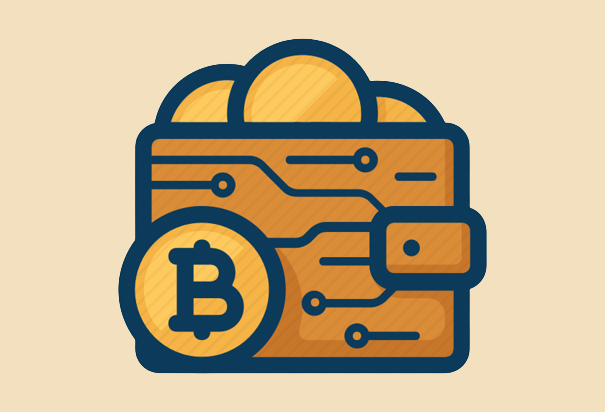
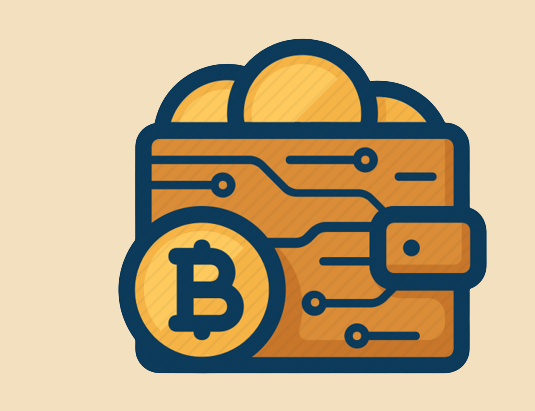
fixed total balance and align issues

Changed region(s): [[0.1794, 0.0876, 0.9271, 0.9343], [0.3589, 0.9051, 0.4187, 0.9343]]

diff --git a/components/LoadWalletComponent.tsx b/components/LoadWalletComponent.tsx
@@ -1,12 +1,21 @@
-import { View, Text, StyleSheet, TouchableOpacity, Image } from 'react-native'
+import { View, Text, StyleSheet, TouchableOpacity, ImageBackground } from 'react-native'
 import React from 'react'
 
-export const LoadWalletComponent = () => {
+export const LoadWalletComponent = ({coinChains}: any) => {
+
+  const calculate_total_balance = () => {
+    let total_balance = 0
+    for (let chain of coinChains){
+        total_balance += +(chain.total_value)
+    }
+    return total_balance
+  }
+
   return (
     <View style={styles.topContainer}>
         <View style={styles.loadWalletSection}>
             <Text style={styles.totalBalanceDesc}>Total Balance</Text>
-            <Text style={styles.totalBalancePrice}>$89.97</Text>
+            <Text style={styles.totalBalancePrice}>${calculate_total_balance()}</Text>
             <TouchableOpacity style={styles.LoadWalletButton}>
                 <Text style={{marginLeft:17, paddingBottom:4, fontWeight: 'bold',}}>Load Wallet</Text>
             </TouchableOpacity>
@@ -15,7 +24,7 @@ export const LoadWalletComponent = () => {
             
         </View> */}
         <View style={{...styles.walletImageSection}}>
-            <Image style={styles.sideImage} source={require("../assets/images/wallet_image.png")}></Image>
+            <ImageBackground style={styles.sideImage} source={require("../assets/images/wallet_image.png")}/>
         </View>
         
       
@@ -53,21 +62,19 @@ const styles = StyleSheet.create({
         height: 40,
         width: 115 ,
         borderRadius: 50,
-        marginLeft: 15,
+        marginLeft: 10,
         backgroundColor: "#f5b445",
         justifyContent: 'center',
     },
     sideImage:{
         height: 161,
         width: 252
-        // height: 161px;
-        // width: 252px;
     },
     walletImageSection: {
-        // width: 100,
         backgroundColor:'#f3e0be',
         paddingTop: 10,
-        justifyContent: 'space-around'
+        justifyContent: 'space-around',
+        textAlign: 'right'
 
     }
 

diff --git a/components/CoinsComponent.tsx b/components/CoinsComponent.tsx
@@ -1,12 +1,17 @@
 import { View, Text, Image, StyleSheet } from 'react-native'
 import React from 'react'
-import { CoinType } from "../types";
 
 
-export const CoinsComponent = ({coin}) => {
+export const CoinsComponent = ({coin}: any) => {
   return (
         <View style={styles.singleCoin}>
-            <Image style={styles.logoImage} source={{uri: coin.logo_url}}></Image>
+            <View>
+                <Image style={styles.logoImage} source={{uri: coin.logo_url}}></Image>
+                <Image style={styles.logoSuffixImage} source={{uri: coin.logo_url}}></Image>
+            </View>
+            {/* <View>
+                
+            </View> */}
             <View style={styles.coinNameSymbolContainer}>
                 <Text style={styles.coinName} >{coin.name}</Text>
                 <Text style={styles.coinSymbol} >{coin.symbol}</Text>
@@ -46,7 +51,7 @@ const styles = StyleSheet.create({
         paddingLeft: "16px",
     },
     coinNameSymbolContainer:{
-        
+        paddingLeft:6
     },
     coinPriceContainer:{
         flex:1,
@@ -57,7 +62,6 @@ const styles = StyleSheet.create({
     },
     coinTotal:{
         textAlign: "right",
-        fontSize: 13,
         fontWeight: "bold",
         fontSize: 17,
         paddingTop: 7,
@@ -67,5 +71,13 @@ const styles = StyleSheet.create({
         textAlign: "right",
         color: "#b1b1b1",
         paddingBottom: 10
-    }
+    },
+    logoSuffixImage:{
+        // position: 'absolute',
+        height: 20,
+        width: 20,
+        left: 38,
+        bottom: 8,
+        borderRadius: 100,
+       }
 })

diff --git a/screens/Portfolio.tsx b/screens/Portfolio.tsx
@@ -13,7 +13,7 @@ const Portfolio = () => {
     const [verified, setVerified] = useState(true)
     const [coinChains, setcoinChains] = useState([])
 
-    const update_coins = (coinChainsArr) => {
+    const update_coins = (coinChainsArr: any) => {
         let coins_array: CoinType[] = [];
         for (let chain of coinChainsArr) {
             for (let coin of chain.token_holdings) {
@@ -44,7 +44,7 @@ const Portfolio = () => {
 
     return (
         <View>
-            <LoadWalletComponent/>
+            <LoadWalletComponent coinChains={coinChains}/>
             <View style={styles.middleContainer}>
                 <View style={styles.lastUpdatedContainer}>
                     <Text>Last Updated: 4 Mins Ago</Text>
@@ -61,7 +61,7 @@ const Portfolio = () => {
             <View style={{height: "77.5vh"}}>
                 <View style={styles.coinsContainer}>
                 {
-                    Coins.map((coin, index) => (
+                    Coins.map((coin: CoinType, index) => (
                         <CoinsComponent key={index} coin={coin}/>
                     ))
                 }
